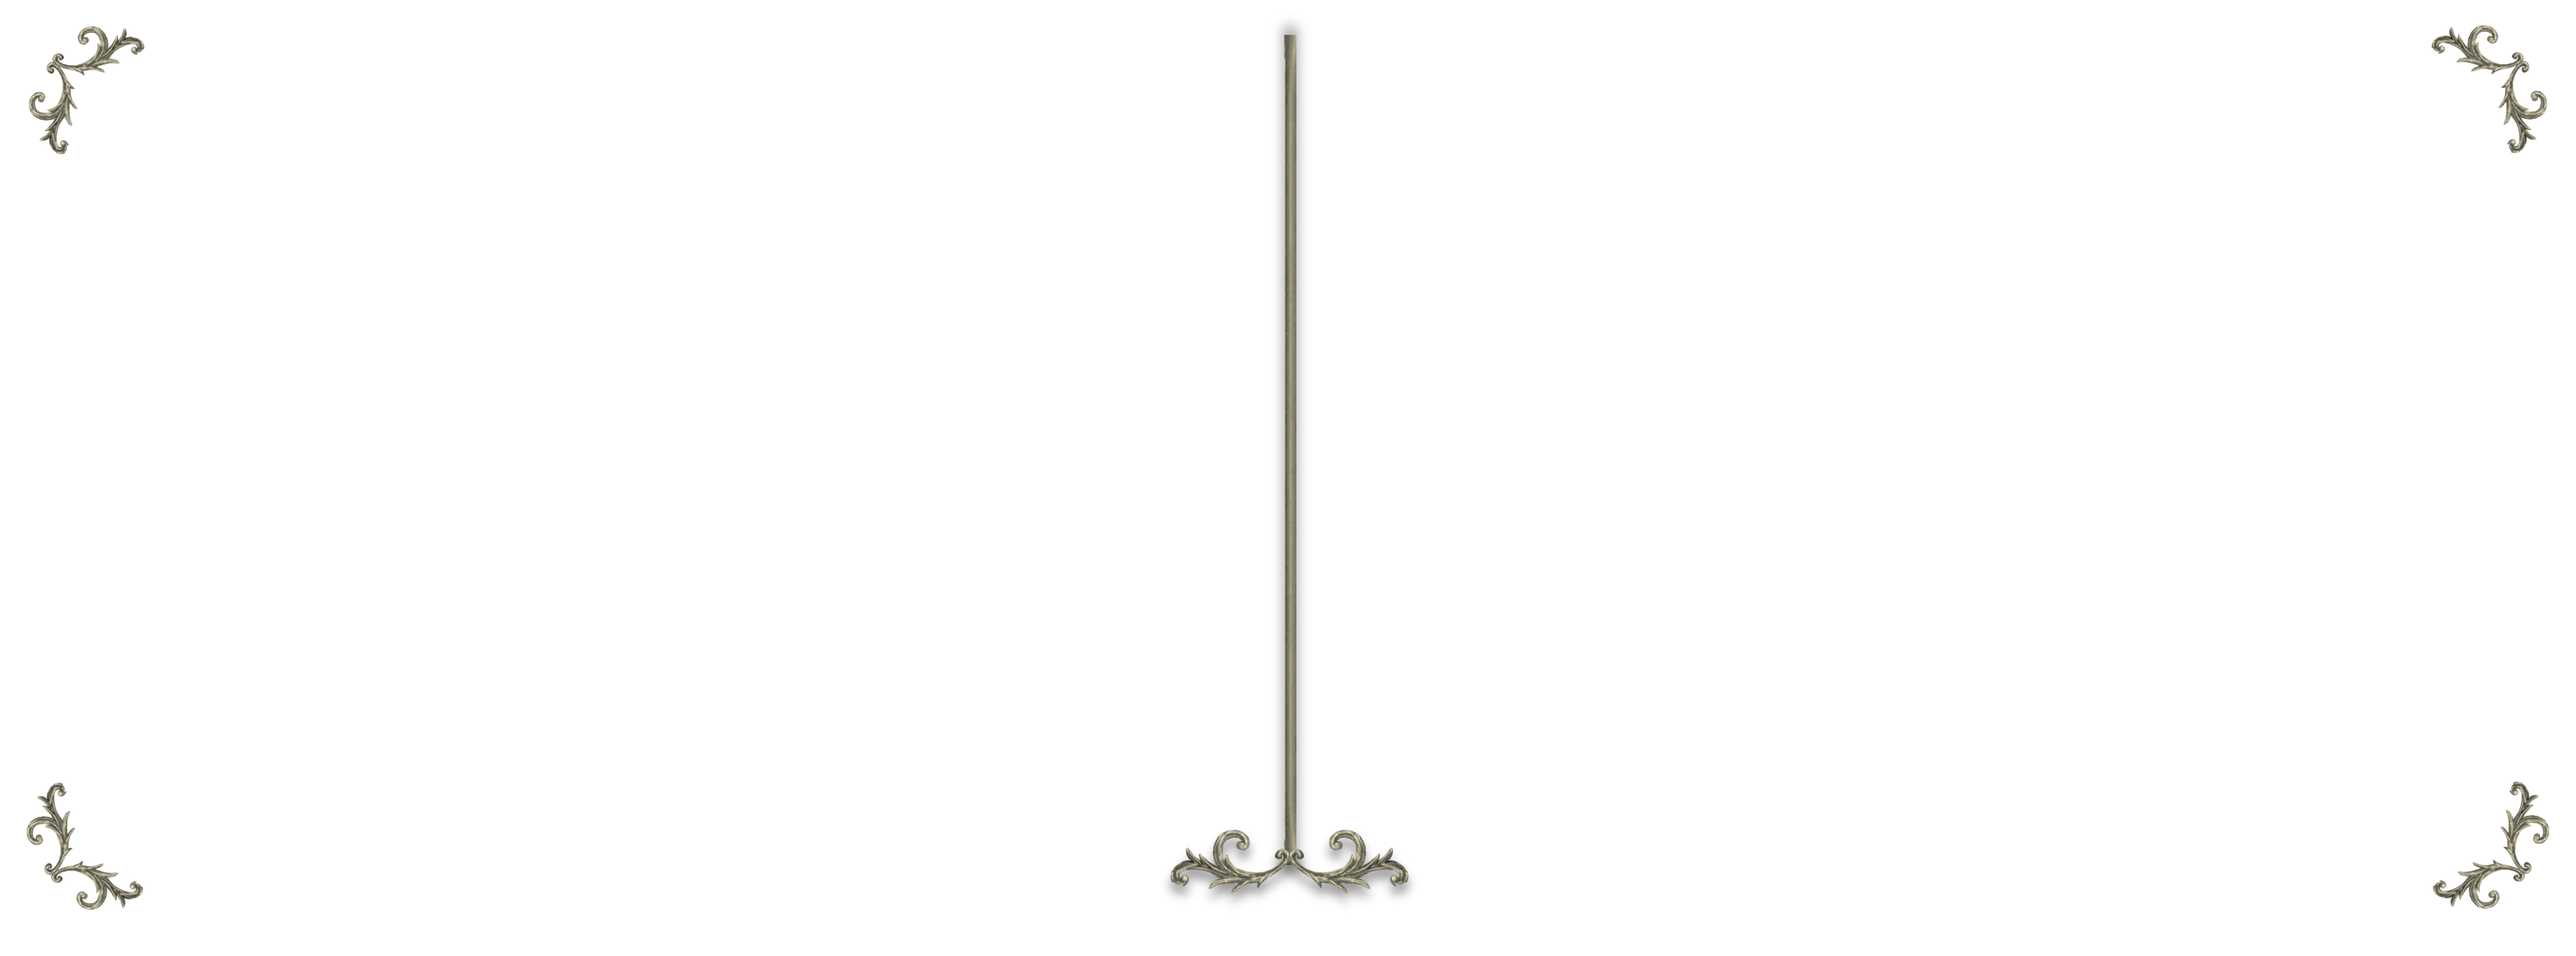
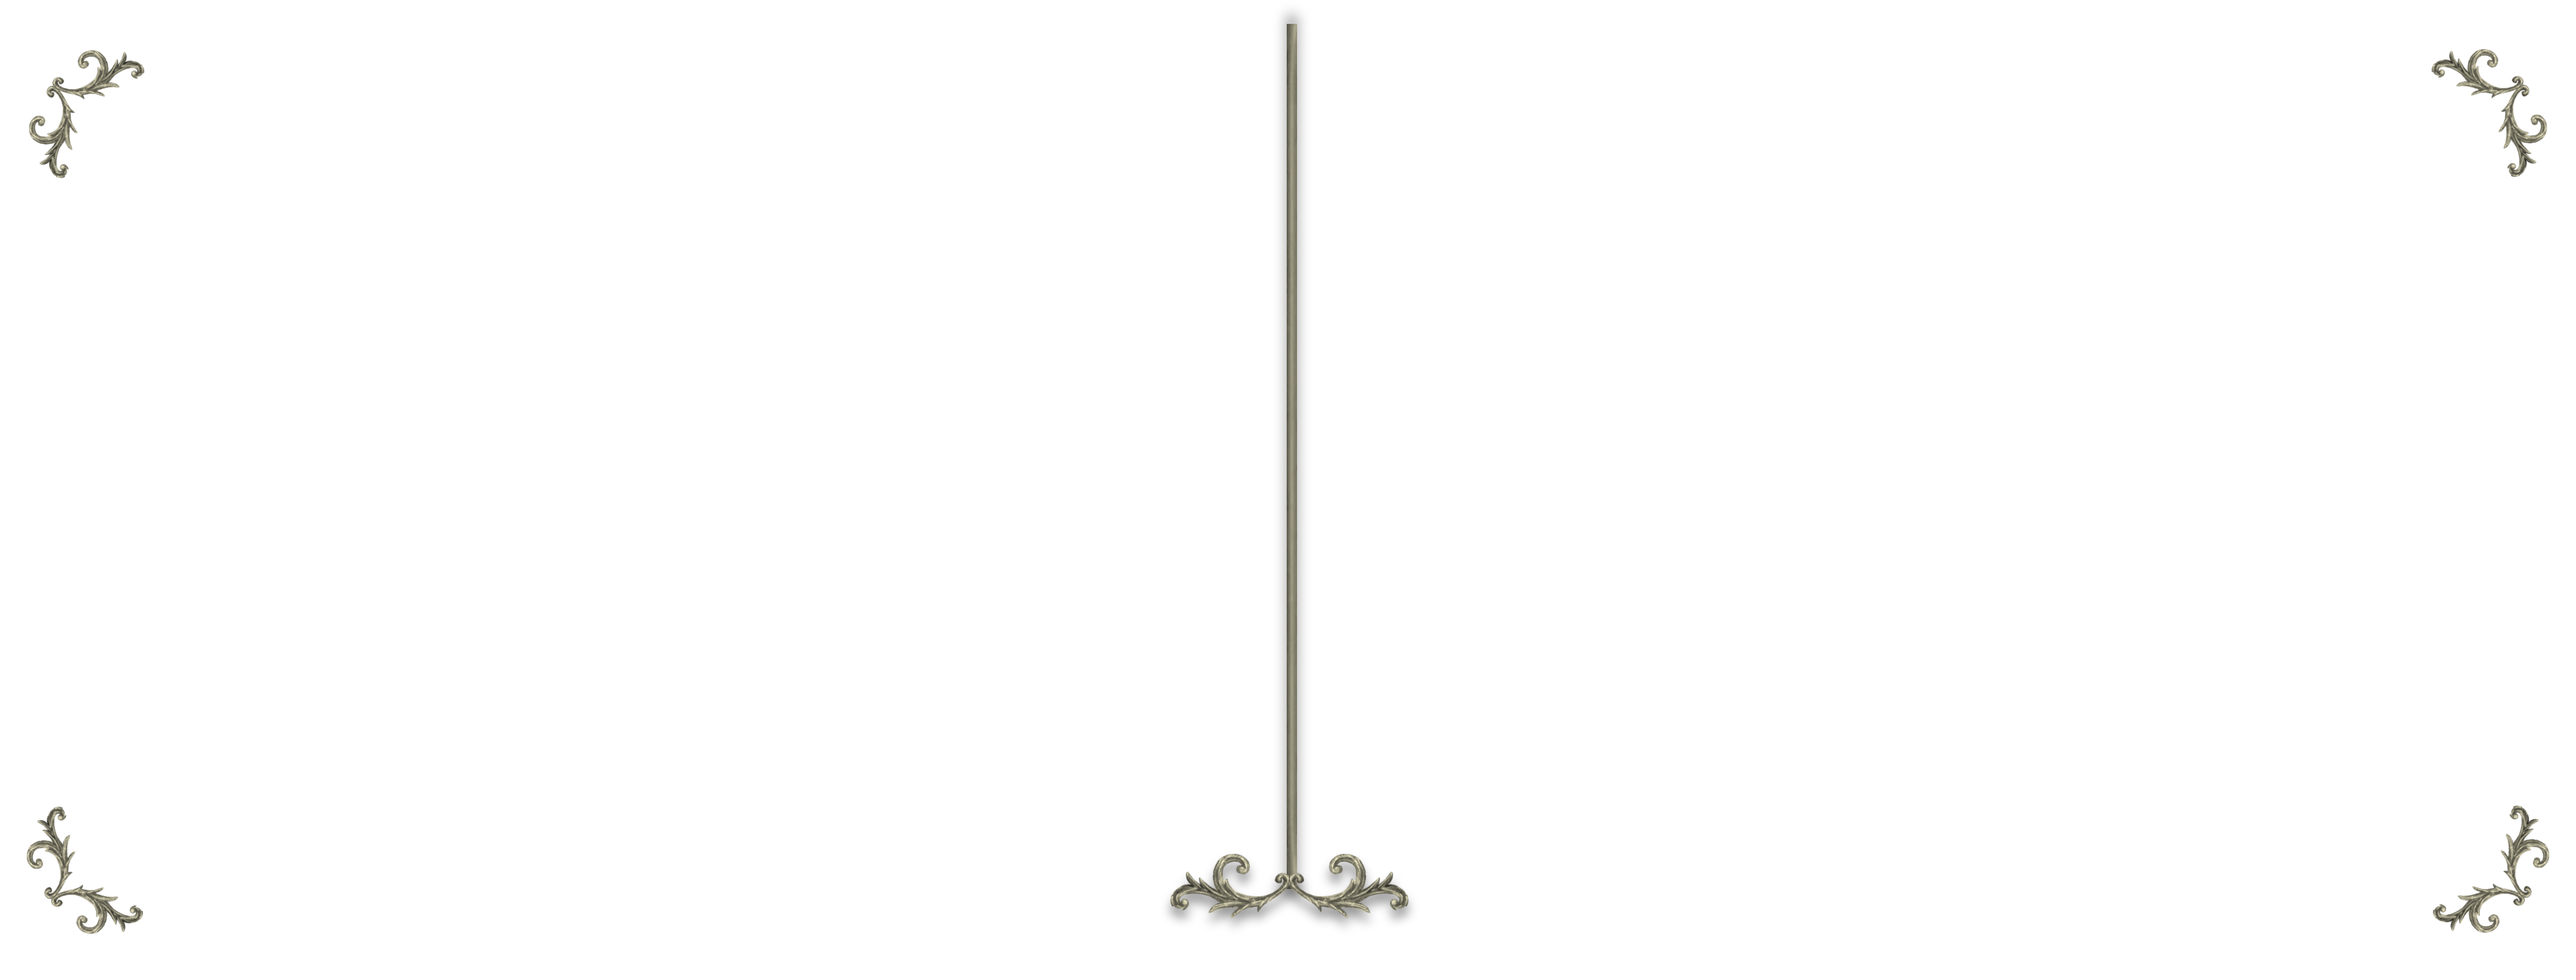
Projects thumbnail design.

diff --git a/src/styles.css b/src/styles.css
@@ -1539,7 +1539,7 @@ width: 2vw;
     position: relative;
     height: 4vw;
     width: 100%;
-    margin-bottom: 1vw;
+    margin: 1vw 0 1vw 0;
 }
 
 .project-container {
@@ -1580,36 +1580,32 @@ width: 2vw;
     margin-left: -2vw;
 }
 
-.thumbnail-view-01,
-.thumbnail-view-02 {
-    width: 90%;
+.thumbnail-default {
+    height: 100%;
+    width: 92%;
     display: flex;
     flex-direction: column;
     align-items: center;
 }
 
-.thumbnail-view-01 {
-    height: 95%;
-}
-
-.thumbnail-view-02 {
+.project-thumbnail-default {
+    margin-top: 4vw;
     height: 100%;
-}
-
-.project-thumbnail-01,
-.project-thumbnail-02 {
     width: 100%;
-    background-color: lightgray;
-    border-radius: 20px;
-    border: 5px solid white;
+    border: 0.35vw ridge lightgray;
     display: flex;
+    border-radius: 0.2vw;
 }
 
-.project-thumbnail-01 {
-    height: 92%;
-}
-.project-thumbnail-02 {
-    height: 100%;
+.thumbnail-default-background {
+    position: absolute;
+    z-index: 1;
+    height: 30vw;
+    width: 65vw;
+    background-image: url(assets/Images/thumbnail-default.background.png);
+    background-size: contain;
+    background-position: center;
+    background-repeat: no-repeat;
 }
 
 .thumbnail-container {
@@ -1689,8 +1685,8 @@ width: 2vw;
     z-index: 1;
     background-image: url(assets/Images/project-frame-fcc.png);
     background-position: center;
-    background-position-y: 4vw;
-    background-size: 99% 76%;
+    background-position-y: 3.1vw;
+    background-size: 99% 69%;
     background-repeat: no-repeat;
     bottom: 0.4vw;
 }

diff --git a/src/app/components/projects/projects.component.html b/src/app/components/projects/projects.component.html
@@ -72,8 +72,11 @@
       <div class="project-container" *ngIf="project.type != 'HISTORY'">
         <div class="project-content">
           <div class="thumbnail-container">
-            <div class="thumbnail-view-02">
-              <div class="project-thumbnail-02"></div>
+            <div class="thumbnail-default">
+                <div class="thumbnail-default-background"></div>
+              <div class="project-thumbnail-default">
+                
+              </div>
             </div>
           </div>
         </div>
